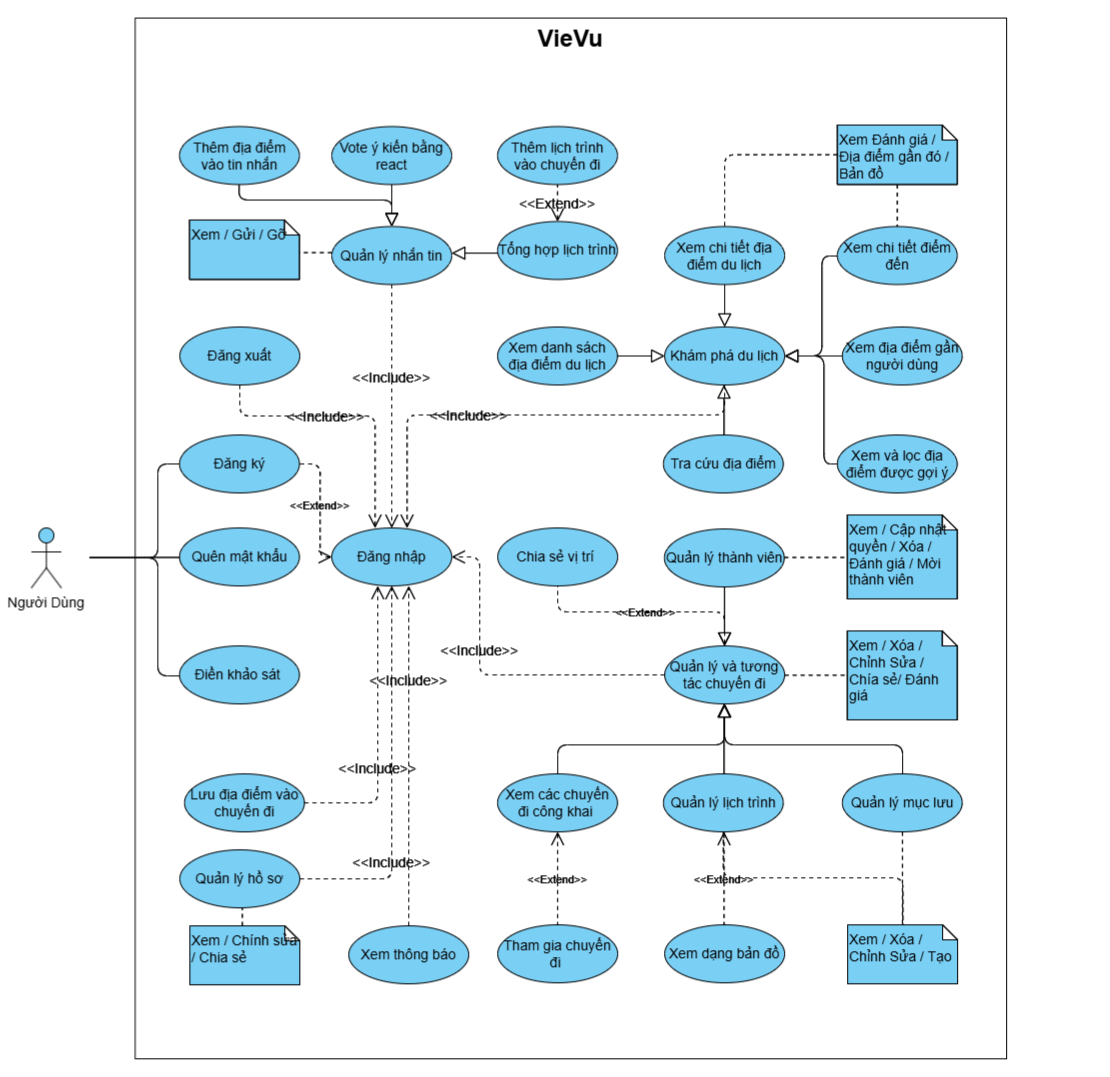
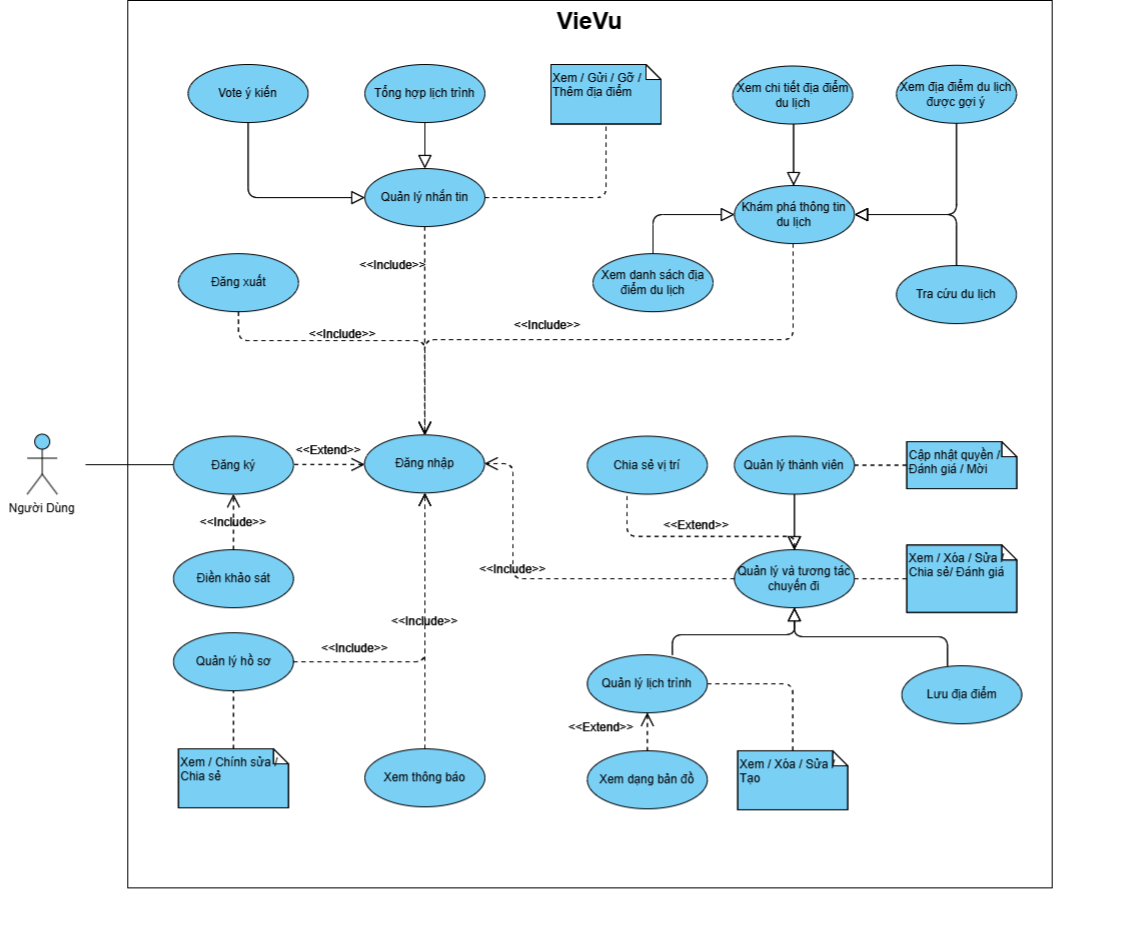
add uc 6 7 8 9 10 and fix the usecases all graph

Changed region(s): [[0.0, 0.0, 0.9189, 0.9688], [0.1225, 0.9688, 0.8883, 1.0], [0.8883, 0.9375, 0.9189, 0.9688]]

diff --git a/chapters/c3/usecases_details/3.3.9_uc.tex b/chapters/c3/usecases_details/3.3.9_uc.tex
@@ -1,0 +1,61 @@
+\subsection{Ca sử dụng gửi tin nhắn}
+\vspace{0.5cm}
+
+
+\noindent 
+\begin{tabularx}{\linewidth}{| l | X |} 
+\hline 
+\textbf{Mô tả} & Người dùng có thể gửi tin nhắn trong nhóm hoặc gửi tin nhắn riêng cho bạn bè.  \\ 
+\hline 
+\textbf{Luồng cơ bản} & 1. Người dùng truy cập tab tin nhắn. \newline
+                        2. Người dùng bấm vào một cuộc hội thoại muốn gửi tin nhắn. \newline
+                        3. Hệ thống hiển thị thông tin của cuộc hội thoại và các tin nhắn trong cuộc hội thoại đó. \newline
+                        4. Người dùng nhập tin nhắn muốn gửi. \newline
+                        5. Người dùng bấm gửi. \newline
+                        6. Hệ thống gửi tin nhắn và hiển thị tin nhắn vừa gửi lên cuộc hội thoại. \\
+                        
+\hline 
+\textbf{Luồng thay thế} & Người dùng đính kèm địa điểm vào tin nhắn \newline
+   1. Người dùng nhấn nút "+" cạnh ô input. \newline
+   2. Hệ thống hiển thị giao diện tìm kiếm/chọn địa điểm. \newline
+   3. Người dùng chọn một địa điểm. \newline
+   4. Hệ thống thêm thông tin địa điểm đã chọn vào nội dung tin nhắn đang soạn thảo. \\
+
+                       
+\hline 
+\textbf{Tiền điều kiện} &- Người dùng đang đăng nhập và phiên đăng nhập chưa kết thúc. \newline
+                        - Người dùng đã có ít nhất một cuộc hội thoại. \\
+\hline 
+\textbf{Hậu điều kiện} & - Hệ thống lưu tin nhắn vào cơ sở dữ liệu và hiển thị tin nhắn trong cuộc hội thoại trong thời gian thực. \newline
+                        - Hệ thống nhận diện địa điểm trong tin nhắn và highlight các địa điểm đó. \newline
+                        - Hệ thống phân loại tin nhắn có cần thiết cho tổng hợp lịch trìn hay không. \newline
+                        - Người dùng có thể nhấn vào địa điểm trong tin nhắn để xem chi tiết địa điểm. \newline
+                        - Người dùng có thể react hoặc gỡ tin nhắn\\
+
+\hline 
+\textbf{Yêu cầu phi chức năng} & Hệ thống xử lý gửi tin nhắn dưới 1s  \\ 
+\hline 
+\end{tabularx}
+
+
+
+\noindent 
+\begin{tabular}{| c | c |}
+    \hline
+    \textbf{Biểu đồ hoạt động} & \textbf{Quan hệ} \\ 
+    \hline
+    \includegraphics[width=0.5\linewidth]{figures/c3/3-3-9-ad.png} 
+    & 
+    \includegraphics[width=0.45\linewidth]{figures/c3/3-3-9-rd.png} \\ 
+    \hline
+\end{tabular}
+
+
+\vspace{0.8cm}
+
+\begin{figure}[H]
+    \centering  
+    \includegraphics[width=1\textwidth]{figures/c3/3-3-9-sd.png}
+    \caption{Biểu đồ tuần tự ca sử dụng gửi tin nhắn.}
+    \label{fig:3-3-9-sequence-diagram}
+\end{figure}

diff --git a/chapters/c2/c2_fundamental.tex b/chapters/c2/c2_fundamental.tex
@@ -44,7 +44,7 @@ Mạng Nơ-ron nhân tạo (Neural Networks - NN), đặc biệt là các kiến
 
 Trong lĩnh vực gợi ý, NN được áp dụng hiệu quả để thực hiện Lọc cộng tác và xây dựng các hệ thống gợi ý lai. Một cách tiếp cận phổ biến là sử dụng NN để học các vector biểu diễn nhúng (embedding vectors) - là các vector dày đặc, ít chiều - cho cả người dùng và đối tượng từ ma trận tương tác (ví dụ: ratings). Các embeddings này cố gắng nắm bắt các đặc tính hoặc sở thích tiềm ẩn. Sau đó, sự tương tác hoặc mức độ phù hợp giữa người dùng và đối tượng có thể được dự đoán bằng cách kết hợp các vector embeddings tương ứng, ví dụ thông qua phép nhân vô hướng hoặc đưa chúng vào các lớp mạng nơ-ron phức tạp hơn để mô hình hóa các tương tác phi tuyến.
 
-Một ưu điểm đáng kể của việc sử dụng NN là khả năng dễ dàng tích hợp các thông tin phụ trợ vào mô hình gợi ý, chẳng hạn như đặc điểm của đối tượng hoặc thông tin về người dùng, tạo thành mô hình Hybrid. Đối với các đặc điểm dạng hạng mục như loại hình địa điểm ("Núi", "Biển"...), kỹ thuật tiền xử lý phổ biến là One-Hot Encoding  \cite{ohe_concept}. OHE biến đổi mỗi giá trị hạng mục thành một vector nhị phân duy nhất, cho phép mạng NN có thể tiếp nhận và xử lý các thông tin rời rạc này một cách hiệu quả trong quá trình học.
+Một ưu điểm đáng kể của việc sử dụng NN là khả năng dễ dàng tích hợp các thông tin phụ trợ vào mô hình gợi ý, chẳng hạn như đặc điểm của đối tượng hoặc thông tin về người dùng, tạo thành mô hình Hybrid. Đối với các đặc điểm dạng hạng mục như loại hình địa điểm ("Núi", "Biển",v.v.), kỹ thuật tiền xử lý phổ biến là One-Hot Encoding  \cite{ohe_concept}. OHE biến đổi mỗi giá trị hạng mục thành một vector nhị phân duy nhất, cho phép mạng NN có thể tiếp nhận và xử lý các thông tin rời rạc này một cách hiệu quả trong quá trình học.
 
 \textit{Ứng dụng trong VieVu: Hệ thống gợi ý địa điểm chính của VieVu được xây dựng dựa trên mô hình Neural Network. Mô hình này học hỏi từ dữ liệu đánh giá (ratings) của người dùng (theo nguyên tắc CF) và đồng thời sử dụng các đặc điểm của địa điểm (đã được mã hóa bằng OHE) để đưa ra các đề xuất được cá nhân hóa.}
 

diff --git a/chapters/c3/usecases_details/3.3.10_uc.tex b/chapters/c3/usecases_details/3.3.10_uc.tex
@@ -1,0 +1,55 @@
+\subsection{Ca sử dụng tổng hợp lịch trình từ hội thoại}
+\vspace{0.5cm}
+
+
+\noindent 
+\begin{tabularx}{\linewidth}{| l | X |} 
+\hline 
+\textbf{Mô tả} & Hệ thống sẽ tổng hợp lại lịch trình được đúc kết từ đoạn tin nhắn trong nhóm chat của người dùng.  \\ 
+\hline 
+\textbf{Luồng cơ bản} & 1. Người dùng bấm vào một cuộc hội thoại nhóm muốn tổng hợp. \newline
+                        2. Hệ thống hiển thị thông cuộc hội thoại và các tin nhắn trong cuộc hội thoại đó. \newline
+                        3. Người dùng chọn tùy chọn tổng hợp tin nhắn. \newline
+                        4. Hệ thống lấy và hiển thị lịch trình tổng hợp của cuộc hội thoại (nếu có) . \newline
+                        5. Người dùng bấm "Tổng hợp". \newline
+                        6. Hệ thống sử dụng AI tổng hợp lịch trình trong cuộc hội thoại và hiển thị lịch trình tổng hợp. \\
+                        
+\hline 
+\textbf{Luồng thay thế} & Hệ thống thông báo lỗi khi không có tin nhắn mới chưa được cập nhật. \\
+
+                       
+\hline 
+\textbf{Tiền điều kiện} &- Người dùng đang đăng nhập và phiên đăng nhập chưa kết thúc. \newline
+                        - Người dùng đã có ít nhất một cuộc hội thoại nhóm. \\
+\hline 
+\textbf{Hậu điều kiện} & - Hệ thống tổng hợp lịch trình sau đó lưu vào cơ sở dữ liệu và hiển thị cho người dùng. \newline
+                        - Hệ thống đánh dấu các tin nhắn đã được tổng hợp. \newline
+                        - Hệ thống gộp lịch trình với lịch trình đã tổng hợp trước đó.\\
+
+\hline 
+\textbf{Yêu cầu phi chức năng} & Hệ thống xử lý tổng hợp lịch trình dưới 10s  \\ 
+\hline 
+\end{tabularx}
+
+
+
+\noindent 
+\begin{tabular}{| c | c |}
+    \hline
+    \textbf{Biểu đồ hoạt động} & \textbf{Quan hệ} \\ 
+    \hline
+    \includegraphics[width=0.5\linewidth]{figures/c3/3-3-10-ad.png} 
+    & 
+    \includegraphics[width=0.45\linewidth]{figures/c3/3-3-10-rd.png} \\ 
+    \hline
+\end{tabular}
+
+
+\vspace{0.8cm}
+
+\begin{figure}[H]
+    \centering  
+    \includegraphics[width=1\textwidth]{figures/c3/3-3-10-sd.png}
+    \caption{Biểu đồ tuần tự ca sử dụng tổng hợp lịch trình.}
+    \label{fig:3-3-10-sequence-diagram}
+\end{figure}

diff --git a/chapters/c3/usecases_details/3.3.7_uc.tex b/chapters/c3/usecases_details/3.3.7_uc.tex
@@ -1,0 +1,51 @@
+\subsection{Ca sử dụng xem danh sách địa điểm gần người dùng}
+\vspace{0.5cm}
+
+
+\noindent 
+\begin{tabularx}{\linewidth}{| l | X |} 
+\hline 
+\textbf{Mô tả} & Người dùng xem danh sách địa điểm du lịch, nhà hàng, khách sạn gần bản thân.  \\ 
+\hline 
+\textbf{Luồng cơ bản} & 1. Người dùng truy cập tab khám phá và bấm vào thanh tìm kiếm  \newline
+                        2. Người dùng bấm vào biểu tượng "Lân cận". \newline
+                        3. Hệ thống hiển thị hộp thoại cấp quyền thông tin
+                        vị trí hiện tại. \newline
+                        4. Người dùng cấp quyền cho hệ thống. \newline
+                        5. Hệ thống lấy vị trí hiện tại của người dùng và hiển thị danh sách địa điểm gần nhất. \\
+                     
+\hline 
+\textbf{Luồng thay thế} & Người dùng không cấp quyền truy cập vị trí sẽ nhận thông báo lỗi.\\           
+\hline 
+\textbf{Tiền điều kiện} & Người dùng đang đăng nhập và phiên đăng nhập chưa kết thúc. \\
+\hline 
+\textbf{Hậu điều kiện} &- Người dùng có thể xem địa chỉ của bản thân và xem chi tiết các dịch vụ, địa điểm trong danh sách. \newline
+                        - Người dùng có thể xem dạng bản đồ các địa điểm trong danh sách. \\
+
+\hline 
+\textbf{Yêu cầu phi chức năng} & Hệ thống xử lý lấy danh sách không quá 5s  \\ 
+\hline 
+\end{tabularx}
+
+\vspace{0.8cm}
+
+\noindent 
+\begin{tabular}{| c | c |}
+    \hline
+    \textbf{Biểu đồ hoạt động} & \textbf{Quan hệ} \\ 
+    \hline
+    \includegraphics[width=0.5\linewidth]{figures/c3/3-3-7-ad.png} 
+    & 
+    \includegraphics[width=0.45\linewidth]{figures/c3/3-3-7-rd.png} \\ 
+    \hline
+\end{tabular}
+
+
+\vspace{0.8cm}
+
+\begin{figure}[H]
+    \centering  
+    \includegraphics[width=1\textwidth]{figures/c3/3-3-7-sd.png}
+    \caption{Biểu đồ tuần tự ca sử dụng xem danh sách địa điểm gần người dùng.}
+    \label{fig:3-3-7-sequence-diagram}
+\end{figure}

diff --git a/chapters/c3/usecases_details/3.3.6_uc.tex b/chapters/c3/usecases_details/3.3.6_uc.tex
@@ -1,0 +1,47 @@
+\subsection{Ca sử dụng xem danh sách địa điểm được gợi ý}
+\vspace{0.5cm}
+
+
+\noindent 
+\begin{tabularx}{\linewidth}{| l | X |} 
+\hline 
+\textbf{Mô tả} & Người dùng xem danh sách địa điểm du lịch gợi ý cho bản thân và tùy chỉnh sở thích về loại hình du lịch để lấy gợi ý khác.  \\ 
+\hline 
+\textbf{Luồng cơ bản} & 1. Người dùng truy cập tab khám phá  \newline
+                        2. Người dùng bấm vào trang đề xuất địa điểm du lịch. \newline
+                        3. Hệ thống điều hướng đến trang hiển thị danh sách địa điểm du lịch gợi ý cho người dùng và bộ lọc tùy chỉnh. \\
+                     
+\hline 
+\textbf{Luồng thay thế} & Người dùng tùy chỉnh bộ lọc sở thích loại hình du lịch để nhận gợi ý khác.\\           
+\hline 
+\textbf{Tiền điều kiện} & - Người dùng đang đăng nhập và phiên đăng nhập chưa kết thúc. \newline
+                          - Người dùng có thông tin về sở thích. \\
+\hline 
+\textbf{Hậu điều kiện} & - Người dùng có thể chọn địa điểm trong danh sách để xem chi tiết. \\
+
+\hline 
+\textbf{Yêu cầu phi chức năng} & Hệ thống xử lý lấy danh sách không quá 2s  \\ 
+\hline 
+\end{tabularx}
+
+\vspace{0.8cm}
+
+\noindent 
+\begin{tabular}{| c | c |}
+    \hline
+    \textbf{Biểu đồ hoạt động} & \textbf{Quan hệ} \\ 
+    \hline
+    \includegraphics[width=0.5\linewidth]{figures/c3/3-3-6-ad.png} 
+    & 
+    \includegraphics[width=0.45\linewidth]{figures/c3/3-3-6-rd.png} \\ 
+    \hline
+\end{tabular}
+
+
+
+\begin{figure}[H]
+    \centering  
+    \includegraphics[width=1\textwidth]{figures/c3/3-3-6-sd.png}
+    \caption{Biểu đồ tuần tự ca sử dụng xem danh sách địa điểm được gợi ý.}
+    \label{fig:3-3-6-sequence-diagram}
+\end{figure}

diff --git a/chapters/c3/usecases_details/3.3.8_uc.tex b/chapters/c3/usecases_details/3.3.8_uc.tex
@@ -1,0 +1,50 @@
+\subsection{Ca sử dụng xem thông tin chi tiết địa điểm du lịch}
+\vspace{0.5cm}
+
+
+\noindent 
+\begin{tabularx}{\linewidth}{| l | X |} 
+\hline 
+\textbf{Mô tả} & Người dùng xem chi tiết thông tin địa điểm du lịch.  \\ 
+\hline 
+\textbf{Luồng cơ bản} & 1. Người dùng bấm vào một địa điểm du lịch muốn xem thông tin\newline
+                
+                        2. Hệ thống hiển thị thông tin chi tiết địa điểm du lịch. \\
+                        vị trí hiện tại. \\
+                     
+% \hline 
+% \textbf{Luồng thay thế} & Người dùng không cấp quyền truy cập vị trí sẽ nhận thông báo lỗi.\\           
+\hline 
+\textbf{Tiền điều kiện} & Người dùng đang đăng nhập và phiên đăng nhập chưa kết thúc. \\
+\hline 
+\textbf{Hậu điều kiện} &- Người dùng có thể xem thông tin về địa điểm như mô tả, địa chỉ, sđt, ảnh. \newline
+                        - Người dùng có thể xem chi tiết các đánh giá về địa điểm. \newline
+                        - Người dùng có thể xem chi tiết các địa điểm liên quan. \\
+
+\hline 
+\textbf{Yêu cầu phi chức năng} & Hệ thống xử lý lấy thông tin không quá 2s  \\ 
+\hline 
+\end{tabularx}
+
+\vspace{0.8cm}
+
+\noindent 
+\begin{tabular}{| c | c |}
+    \hline
+    \textbf{Biểu đồ hoạt động} & \textbf{Quan hệ} \\ 
+    \hline
+    \includegraphics[width=0.5\linewidth]{figures/c3/3-3-8-ad.png} 
+    & 
+    \includegraphics[width=0.45\linewidth]{figures/c3/3-3-8-rd.png} \\ 
+    \hline
+\end{tabular}
+
+
+\vspace{0.8cm}
+
+\begin{figure}[H]
+    \centering  
+    \includegraphics[width=1\textwidth]{figures/c3/3-3-8-sd.png}
+    \caption{Biểu đồ tuần tự ca sử dụng xem thông tin chi tiết địa điểm du lịch.}
+    \label{fig:3-3-8-sequence-diagram}
+\end{figure}

diff --git a/chapters/c2/c2_technology.tex b/chapters/c2/c2_technology.tex
@@ -16,7 +16,7 @@ Phía máy chủ của VieVu được xây dựng dựa trên sự kết hợp c
     \item \textbf{Supabase (Backend as a Service)\cite{supabase_doc}:}
     là nền tảng dịch vụ Cloud Backend mã nguồn mở dựa trên PostgreSQL, được sử dụng làm Backend chính để xử lý các nghiệp vụ cốt lõi và quản lý dữ liệu. Các tính năng chính trong Supabase được khai thác bao gồm:
         \begin{itemize}
-            \item \textit{PostgreSQL Database:} Lưu trữ toàn bộ dữ liệu quan hệ của ứng dụng như người dùng, chuyến đi, địa điểm, đánh giá, lịch trình,...
+            \item \textit{PostgreSQL Database:} Lưu trữ toàn bộ dữ liệu quan hệ của ứng dụng như người dùng, chuyến đi, địa điểm, đánh giá, lịch trình,.v.v.
                         \item \textit{Realtime Features:} Lắng nghe sự thay đổi trên cơ sở dữ liệu và đồng bộ dữ liệu trong thời gian thực cho các tính năng như chat và chia sẻ vị trí.
                         \item \textit{Authentication:} Quản lý vòng đời (sessions) và xác thực người dùng một cách an toàn, hỗ trợ đăng nhập qua nền tảng thứ ba như Google, Facebook, emai.v.v.
                         \item \textit{Scheduled Tasks:} Thực thi các tác vụ nền tự động (như cập nhật trạng thái chuyến đi) bằng cách kết hợp PostgreSQL Functions với cơ chế Cron Jobs (\texttt{pg\_cron}) .

diff --git a/chapters/c3/usecases_details/3.3.5_uc.tex b/chapters/c3/usecases_details/3.3.5_uc.tex
@@ -10,9 +10,9 @@
 \textbf{Luồng cơ bản} & 1. Người dùng truy cập tab khám phá và bấm vào thanh tìm kiếm \newline
                        2. Hệ thống hiển thị lịch sử tìm kiếm và các bộ lọc. \newline
                        3. Người dùng nhập từ khóa tìm kiếm. \newline
-                       4. Hệ thống tra lưu từ khóa tìm kiếm và hiện thị kết quả theo danh sách. \\
-\hline 
-\textbf{Luồng thay thế} & Người dùng tìm kiếm và chọn bộ lọc (sự kiện, địa điểm, nhà hàng, khách sạn, điểm đến,...).\\
+                       4. Người dùng chọn bộ lọc(sự kiện, địa điểm, nhà hàng, khách sạn, điểm đến,...). \newline
+                       5. Hệ thống tra lưu từ khóa tìm kiếm và hiện thị kết quả theo danh sách. \\
+
                          
 \hline 
 \textbf{Tiền điều kiện} & Người dùng đang đăng nhập và phiên đăng nhập chưa kết thúc. \\

diff --git a/chapters/c3/c3_usecases_details.tex b/chapters/c3/c3_usecases_details.tex
@@ -12,16 +12,16 @@ Phần này đi sâu vào mô tả chi tiết các ca sử dụng (use cases) ch
 \nopagebreak
 \input{chapters/c3/usecases_details/3.3.5_uc}
 \nopagebreak
-% \input{chapters/c3/usecases_details/3.3.6_uc}
-% \nopagebreak
-% \input{chapters/c3/usecases_details/3.3.7_uc}
-% \nopagebreak
-% \input{chapters/c3/usecases_details/3.3.8_uc}
-% \nopagebreak
-% \input{chapters/c3/usecases_details/3.3.9_uc}
-% \nopagebreak
-% \input{chapters/c3/usecases_details/3.3.10_uc}
-% \nopagebreak
+\input{chapters/c3/usecases_details/3.3.6_uc}
+\nopagebreak
+\input{chapters/c3/usecases_details/3.3.7_uc}
+\nopagebreak
+\input{chapters/c3/usecases_details/3.3.8_uc}
+\nopagebreak
+\input{chapters/c3/usecases_details/3.3.9_uc}
+\nopagebreak
+\input{chapters/c3/usecases_details/3.3.10_uc}
+\nopagebreak
 % \input{chapters/c3/usecases_details/3.3.11_uc}
 % \nopagebreak
 % \input{chapters/c3/usecases_details/3.3.12_uc}
